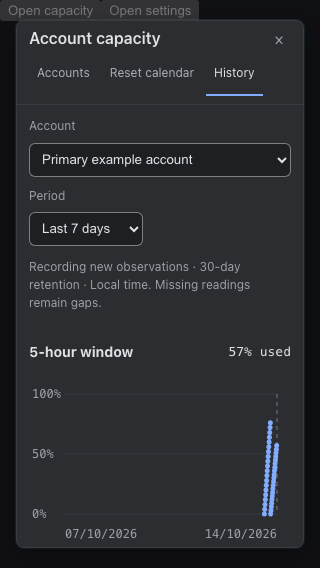
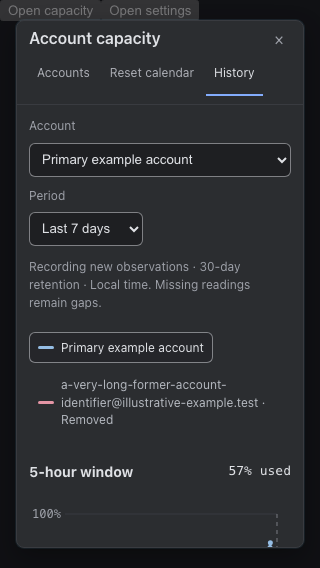
feat: compare account quota histories
Overlay account histories with matching legend colors and account filtering. Keep both quota windows separate so users can compare reported usage without combining their limits.

diff --git a/src/web/components/AccountHistoryView.tsx b/src/web/components/AccountHistoryView.tsx
@@ -1,19 +1,19 @@
 import React, { useEffect, useRef, useState } from "react";
 import {
   type AccountHistory,
-  type AccountSnapshot,
+  type SnapshotAccount,
   historySegments,
   formatSnapshotTime,
 } from "../account-history";
 import "./account-history.css";
 const stamp = formatSnapshotTime;
 function HistoryChart({
-  points,
+  accounts,
   window,
   start,
   end,
 }: {
-  points: AccountSnapshot[];
+  accounts: (SnapshotAccount & { color: string })[];
   window: "five_hour" | "seven_day";
   start: number;
   end: number;
@@ -29,9 +29,15 @@ function HistoryChart({
     observer.observe(svg);
     return () => observer.disconnect();
   }, []);
-  const [selected, setSelected] = useState<number | null>(null);
-  const values = points.filter((p) => p[window]);
-  const p = values.find((p) => p.t === selected) ?? values.at(-1);
+  const [selected, setSelected] = useState<string | null>(null);
+  const values = accounts
+    .flatMap((a) =>
+      a.points
+        .filter((p) => p[window])
+        .map((p) => ({ ...p, account: a, key: `${a.id}:${p.t}` })),
+    )
+    .sort((a, b) => a.t - b.t || a.account.id.localeCompare(b.account.id));
+  const p = values.find((p) => p.key === selected) ?? values.at(-1);
   const w = p?.[window];
   const x = (t: number) => 36 + ((t - start) / (end - start)) * (width - 50);
   const y = (pct: number) => 140 - pct * 1.2;
@@ -42,7 +48,13 @@ function HistoryChart({
     >
       <header>
         <h3>{window === "five_hour" ? "5-hour window" : "7-day window"}</h3>
-        <span>{w ? `${w.pct}% used` : "No observations"}</span>
+        <span>
+          {accounts.length > 1
+            ? `${accounts.filter((a) => a.points.some((p) => p[window])).length} ${accounts.filter((a) => a.points.some((p) => p[window])).length === 1 ? "account" : "accounts"}`
+            : w
+              ? `${w.pct}% used`
+              : "No observations"}
+        </span>
       </header>
       <svg
         ref={chartRef}
@@ -66,7 +78,8 @@ function HistoryChart({
         ))}
         {[
           ...new Set(
-            points
+            accounts
+              .flatMap((a) => a.points)
               .map((p) => p[window]?.resetAt)
               .filter(
                 (t): t is number =>
@@ -85,24 +98,30 @@ function HistoryChart({
             <title>Reported reset {stamp(t * 1000)}</title>
           </line>
         ))}
-        {historySegments(points, window).map((s, i) => (
-          <g key={i}>
-            <polyline
-              points={s.map((p) => `${x(p.t)},${y(p.pct)}`).join(" ")}
-              className="ah-line"
-            />
-            {s.map((p) => (
-              <circle
-                key={p.t}
-                cx={x(p.t)}
-                cy={y(p.pct)}
-                r="2.5"
-                className="ah-dot"
-              >
-                <title>
-                  {stamp(p.t)} · {p.pct}% used
-                </title>
-              </circle>
+        {accounts.map((a) => (
+          <g key={a.id} data-account={a.id}>
+            {historySegments(a.points, window).map((s, i) => (
+              <g key={i}>
+                <polyline
+                  points={s.map((p) => `${x(p.t)},${y(p.pct)}`).join(" ")}
+                  className="ah-line"
+                  style={{ stroke: a.color }}
+                />
+                {s.map((p) => (
+                  <circle
+                    key={p.t}
+                    cx={x(p.t)}
+                    cy={y(p.pct)}
+                    r="2.5"
+                    className="ah-dot"
+                    style={{ fill: a.color }}
+                  >
+                    <title>
+                      {a.name} · {stamp(p.t)} · {p.pct}% used
+                    </title>
+                  </circle>
+                ))}
+              </g>
             ))}
           </g>
         ))}
@@ -117,13 +136,14 @@ function HistoryChart({
         Inspect observation
         <select
           aria-label={`Inspect ${window === "five_hour" ? "5-hour" : "7-day"} observation`}
-          value={p?.t ?? ""}
-          onChange={(e) => setSelected(Number(e.target.value))}
+          value={p?.key ?? ""}
+          onChange={(e) => setSelected(e.target.value)}
           disabled={!values.length}
         >
           {!values.length && <option value="">No observations</option>}
           {[...values].reverse().map((v) => (
-            <option key={v.t} value={v.t}>
+            <option key={v.key} value={v.key}>
+              {accounts.length > 1 ? `${v.account.name} · ` : ""}
               {stamp(v.t)} · {v[window]!.pct}% used
             </option>
           ))}
@@ -135,7 +155,7 @@ function HistoryChart({
       </p>
       <p className="ah-note">
         {p
-          ? `Read ${stamp(p.t)}${w?.resetAt ? ` · Reported reset ${stamp(w.resetAt * 1000)}` : " · Reset time unknown"}`
+          ? `${accounts.length > 1 ? p.account.name + " · " : ""}Read ${stamp(p.t)}${w?.resetAt ? ` · Reported reset ${stamp(w.resetAt * 1000)}` : " · Reset time unknown"}`
           : "Readings will appear as they are collected."}
       </p>
     </section>
@@ -182,11 +202,21 @@ export default function AccountHistoryView() {
   useEffect(() => {
     if (data && days > data.retentionDays) setDays(data.retentionDays);
   }, [data?.retentionDays, days]);
-  const chosen =
-    data?.accounts.find((a) => a.id === account) ?? data?.accounts[0];
+  const chosen = data?.accounts.find((a) => a.id === account);
+  const selectedAccount = chosen?.id ?? "";
+  const colored = (data?.accounts ?? []).map((a, index) => ({
+    ...a,
+    color: `hsl(${(210 + index * 137.508) % 360} 60% var(--session-accent-l, 65%))`,
+  }));
   const end = Date.now(),
     start = end - days * 86400_000;
-  const points = chosen?.points.filter((p) => p.t >= start && p.t <= end) ?? [];
+  const series = colored
+    .filter((a) => !selectedAccount || a.id === selectedAccount)
+    .map((a) => ({
+      ...a,
+      points: a.points.filter((p) => p.t >= start && p.t <= end),
+    }));
+  const hasPoints = series.some((a) => a.points.length > 0);
   return (
     <div className="ah-workspace">
       <div className="ah-toolbar">
@@ -194,10 +224,11 @@ export default function AccountHistoryView() {
           Account
           <select
             aria-label="Account"
-            value={chosen?.id ?? ""}
+            value={selectedAccount}
             onChange={(e) => setAccount(e.target.value)}
             disabled={!data?.accounts.length}
           >
+            <option value="">All accounts</option>
             {!data?.accounts.length && (
               <option value="">No recorded accounts</option>
             )}
@@ -247,7 +278,33 @@ export default function AccountHistoryView() {
             remain gaps.
           </p>
           {data.storageError && <p role="alert">{data.storageError}</p>}
-          {!points.length ? (
+          {data.accounts.length > 0 && (
+            <div className="ah-legend" aria-label="Account legend">
+              {colored.map((a) => (
+                <button
+                  type="button"
+                  key={a.id}
+                  className="ah-legend-account"
+                  aria-pressed={selectedAccount === a.id}
+                  onClick={() =>
+                    setAccount(selectedAccount === a.id ? "" : a.id)
+                  }
+                  title={a.name}
+                >
+                  <span
+                    className="ah-swatch"
+                    style={{ background: a.color }}
+                    aria-hidden="true"
+                  />
+                  <span>
+                    {a.name}
+                    {a.removed ? " · Removed" : ""}
+                  </span>
+                </button>
+              ))}
+            </div>
+          )}
+          {!hasPoints ? (
             <div className="ah-empty">
               <h3>No readings in this period</h3>
               <p>
@@ -259,13 +316,13 @@ export default function AccountHistoryView() {
           ) : (
             <>
               <HistoryChart
-                points={points}
+                accounts={series}
                 window="five_hour"
                 start={start}
                 end={end}
               />
               <HistoryChart
-                points={points}
+                accounts={series}
                 window="seven_day"
                 start={start}
                 end={end}

diff --git a/src/web/components/account-history.css b/src/web/components/account-history.css
@@ -153,3 +153,44 @@
 .ah-storage strong {
   font-family: var(--font-mono);
 }
+
+.ah-legend {
+  display: flex;
+  flex-wrap: wrap;
+  gap: 6px 12px;
+  padding: 8px 0;
+}
+.ah-legend-account {
+  display: flex;
+  align-items: center;
+  gap: 7px;
+  max-width: 100%;
+  padding: 6px 8px;
+  border: 1px solid transparent;
+  border-radius: 6px;
+  color: var(--text-secondary);
+  background: transparent;
+  font: inherit;
+  font-size: 12px;
+  text-align: left;
+  cursor: pointer;
+}
+.ah-legend-account > span:last-child {
+  overflow-wrap: anywhere;
+}
+.ah-legend-account:hover,
+.ah-legend-account[aria-pressed="true"] {
+  background: var(--bg-soft);
+  border-color: var(--ctl-edge);
+  color: var(--text);
+}
+.ah-legend-account:focus-visible {
+  outline: 2px solid var(--accent);
+  outline-offset: 2px;
+}
+.ah-swatch {
+  width: 16px;
+  height: 3px;
+  flex-shrink: 0;
+  border-radius: 2px;
+}

diff --git a/.impeccable/surfaces/account-usage-history.md b/.impeccable/surfaces/account-usage-history.md
@@ -6,7 +6,7 @@ Final surface brief — 2026-10-14, #2104. **Mode: Operate.** Established local 
 
 Account capacity retains Accounts and Reset calendar and adds History within the same dialog. The first view presents Account and Period selectors, recording/retention context, then separate 5-hour and 7-day charts. Account choices come from persisted known readings; removed accounts remain selectable and carry “Removed account”. The initial period is seven days; 30/60/90-day choices follow configured retention.
 
-Each chart pairs its window heading with the inspected percentage, followed by a 0–100% plot, a native “Inspect observation” selector, and observation/reset context. Inspection works through labelled keyboard-operable selects with visible focus. When the selected observation disappears after an account or period change, inspection falls back to the latest available reading; account selection similarly falls back to an available recorded account.
+Each chart pairs its window heading with the inspected percentage, followed by a 0–100% plot, a native “Inspect observation” selector, and observation/reset context. Inspection works through labelled keyboard-operable selects with visible focus. When the selected observation disappears after an account or period change, inspection falls back to the latest available reading; an account selection that no longer exists returns to All accounts.
 
 **Measured readings stay measured.** Percentages mean reported capacity used. Dashed markers denote reported reset times, never guaranteed renewal or token consumption. Dates use browser local time with timezone context on observations. Missing windows remain unknown; series break across missing readings, changed reset windows, or gaps exceeding 30 minutes. Partial accounts can show a point in one window and “No observations” in the other. Empty periods explain accumulation or direct paused recording to Settings → Account history. Loading, read failures with Retry, and storage failures have explicit status/alert text.
 
@@ -31,3 +31,9 @@ Inspected screenshots in `.impeccable/review/2104/`: `desktop.png`, `mobile.png`
 Reviewer disposition supplied by the parent: **ship on the four scored fixes**—timestamp conversion, control edges, measurement typography and selection fallback. This is scoped review evidence, not whole-surface certification. Parent reports 141 tests, typecheck, build and browser fixtures all passed; this documentation pass did not rerun them. Live providers, screen-reader sessions and native Windows/Linux were not tested; Safari/Firefox also remain unverified.
 
 Not canonized: fixture launcher buttons and sample account identities are review scaffolding; the limited ship disposition establishes no new global visual or accessibility rules.
+
+## All-account comparison (owner refinement)
+
+History now defaults to All accounts, overlaying each account on the same time axis in both windows. A shared legend names the accounts and matches line colors. Clicking a legend entry isolates that account; clicking it again or selecting All accounts restores the combined view. Colors name accounts, not quota health, and remain consistent between the two windows and single-account filtering. Observation keys include both account identity and timestamp, keeping simultaneous readings distinct.
+
+Browser checks cover the default combined series, legend filtering/restoration, account and period changes, missing windows and narrow/light/short states. Historical snapshots, collection and retention are unchanged.

diff --git a/docs/features/account-usage-history-2104.md b/docs/features/account-usage-history-2104.md
@@ -42,3 +42,9 @@ Screenshots are under `.impeccable/review/2104/`: baseline-accounts, desktop, mo
 - Screenshot capture timing and browser-runner sequencing defects were corrected before final successful runs.
 
 **SHIP WITH FOLLOW-UPS**, at the tested scope. No live private account/provider operations were performed. Native platform, Safari/Firefox and full assistive-technology sessions remain unverified. Feature branch is separate from development/main; this report does not imply a published release.
+
+## All-account comparison (owner refinement)
+
+History now defaults to All accounts, overlaying each account on the same time axis in both windows. A shared legend names the accounts and matches line colors. Clicking a legend entry isolates that account; clicking it again or selecting All accounts restores the combined view. Colors name accounts, not quota health, and remain consistent between the two windows and single-account filtering. Observation keys include both account identity and timestamp, keeping simultaneous readings distinct.
+
+Browser checks cover the default combined series, legend filtering/restoration, account and period changes, missing windows and narrow/light/short states. Historical snapshots, collection and retention are unchanged.
